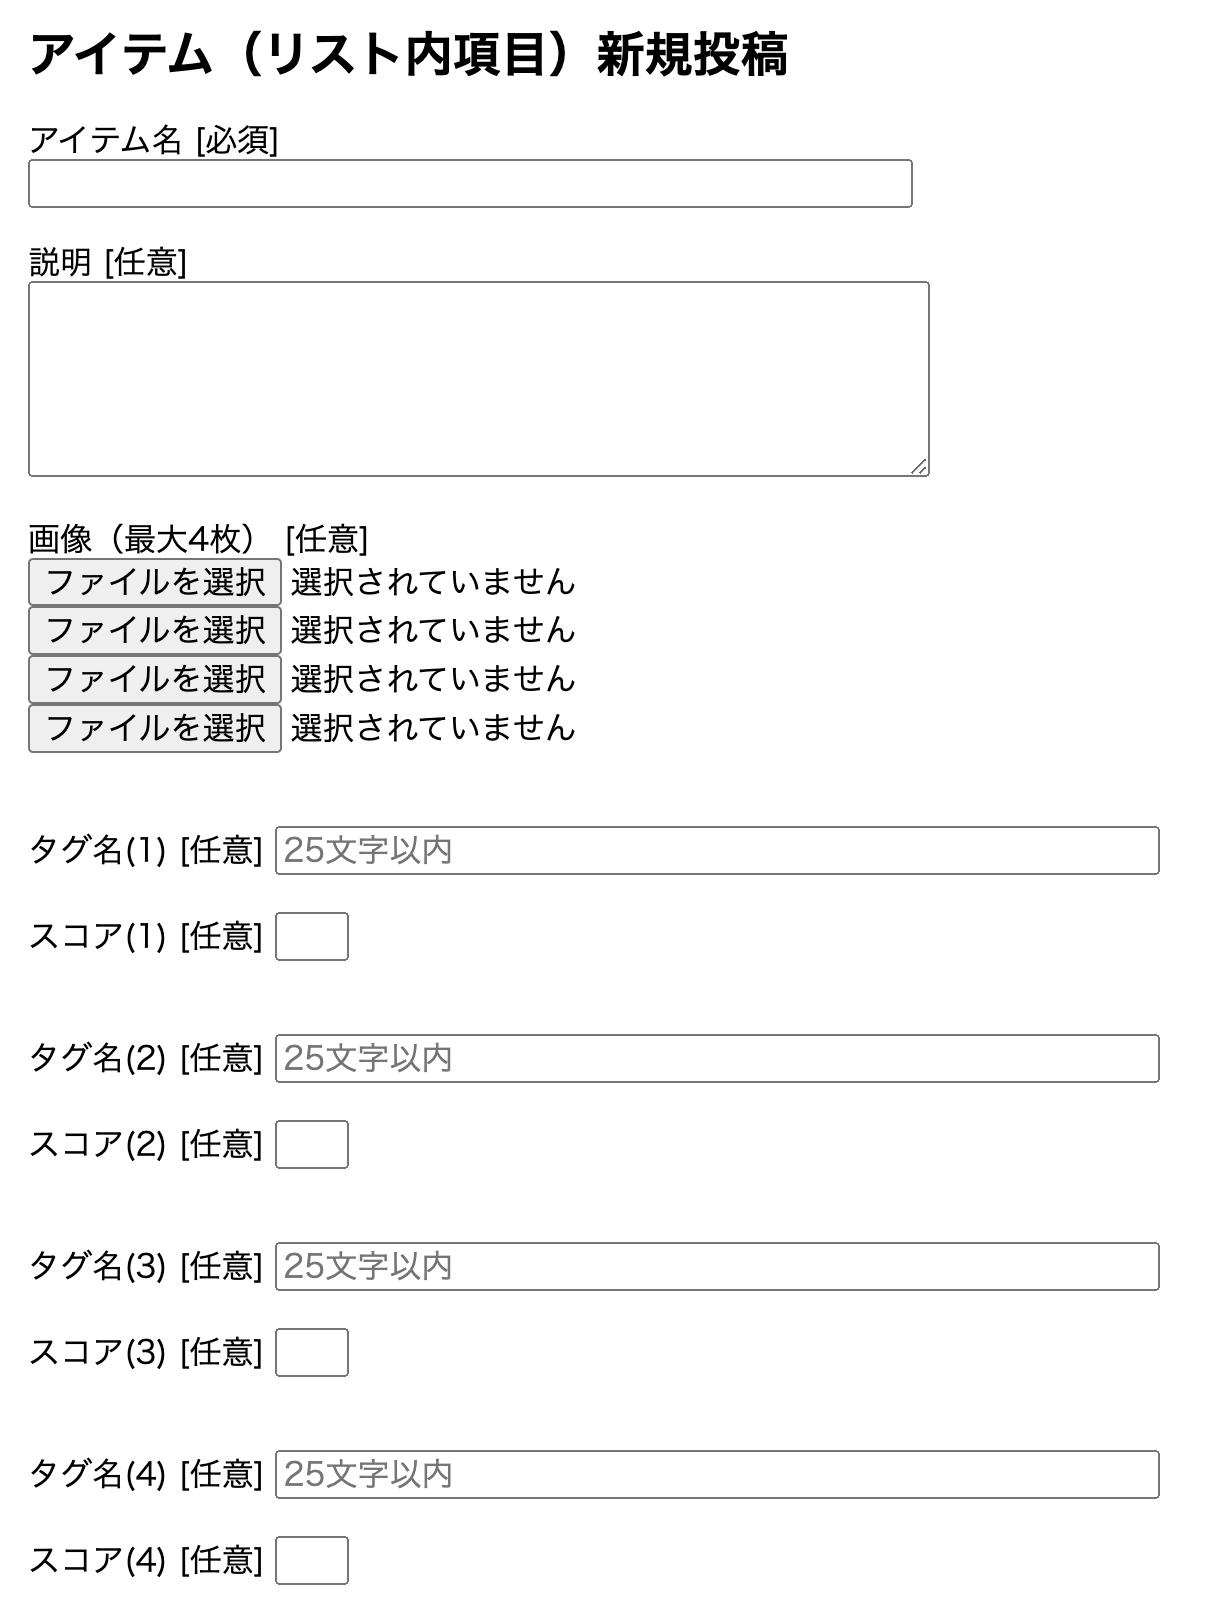
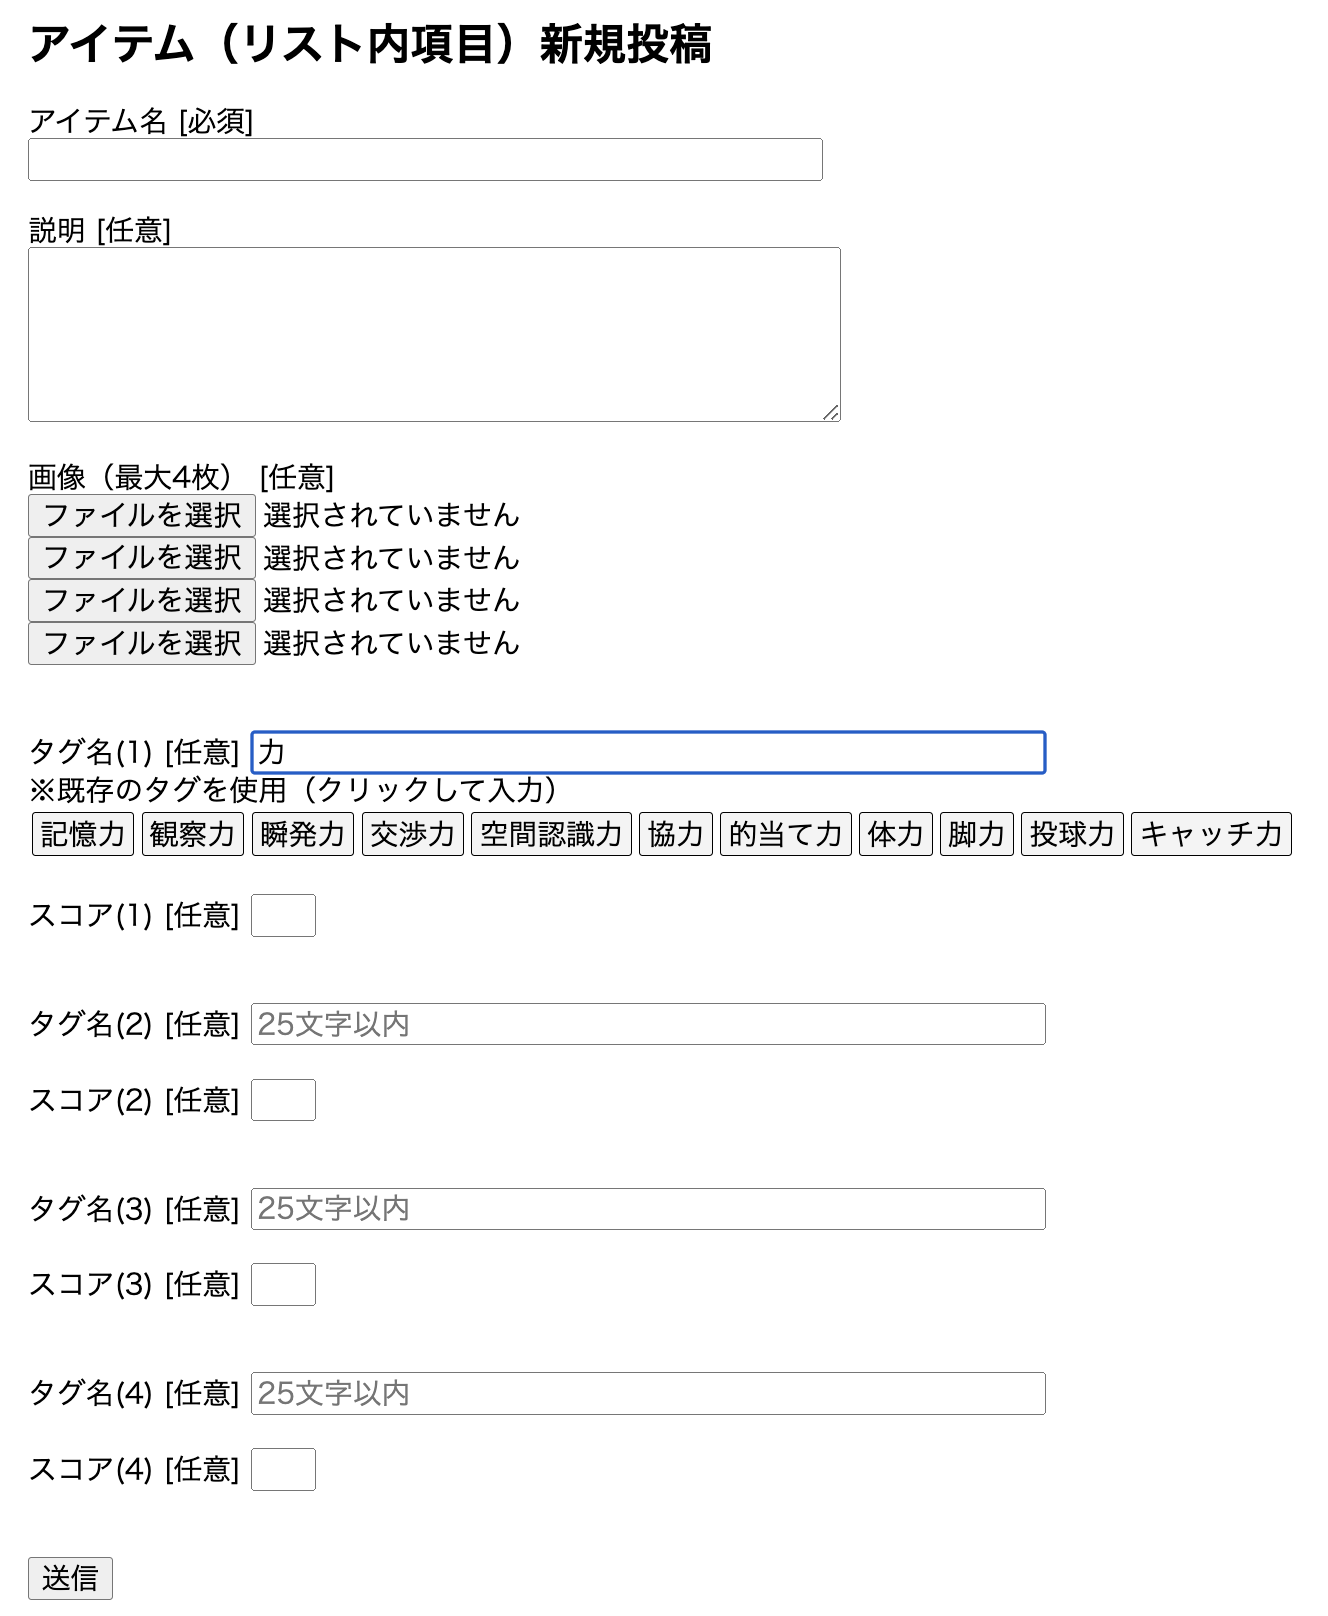
#13 タグ：投稿・編集 (入力時の逐次検索) (JavaScript)
アイテム投稿画面・編集画面：タグ名入力欄に入力した文字が、既存のタグ名と部分一致した場合、タグ名候補を表示。クリックして入力。

diff --git a/app/javascript/tag.js b/app/javascript/tag.js
@@ -1,0 +1,36 @@
+function incrementalSearchTags() {
+  const itemForm = document.getElementById("item_form_item_name");
+  if (itemForm){
+    for (let i = 1; i <= 4; i++){
+      const inputTag = document.getElementById(`item_form_tag_name_${i}`);
+      inputTag.addEventListener("input", () => {
+        const keyword = inputTag.value;
+        const XHR = new XMLHttpRequest();
+        XHR.open("GET", `/tags/search/?keyword=${keyword}`, true);
+        XHR.responseType = "json";
+        XHR.send();
+        XHR.onload = () => {
+          const results = document.getElementById(`search_results_${i}`);
+          results.innerHTML = ""
+          if (XHR.response && XHR.response.keyword != ""){
+            results.innerHTML = `<div>※既存のタグを使用（クリックして入力）</div>`
+            const tags = XHR.response.keyword;
+            tags.forEach((tag) => {
+              const result = document.createElement("span");
+              result.setAttribute("class", "incremental_search_tags")
+              result.setAttribute("id", tag.id);
+              result.innerHTML = tag.tag_name;
+              results.insertAdjacentElement("beforeend", result);
+              result.addEventListener("click", () => {
+                inputTag.value = result.textContent;
+                results.innerHTML = ""
+              });
+            });
+          };
+        };
+      });
+    };
+  };
+};
+
+document.addEventListener("DOMContentLoaded", incrementalSearchTags)

diff --git a/app/javascript/packs/application.js b/app/javascript/packs/application.js
@@ -4,9 +4,10 @@
 // that code so it'll be compiled.
 
 require("@rails/ujs").start()
-require("turbolinks").start()
+// require("turbolinks").start()
 require("@rails/activestorage").start()
 require("channels")
+require("../tag")
 
 
 // Uncomment to copy all static images under ../images to the output folder and reference

diff --git a/app/assets/stylesheets/style.css b/app/assets/stylesheets/style.css
@@ -33,3 +33,12 @@ header {
   text-overflow: ellipsis;
   max-width: 0;
 }
+
+.incremental_search_tags{
+  border: 1px solid;
+  border-radius: 2px;
+  background-color: #F4F4F4;
+  padding: 4px;
+  margin: 2px;
+  line-height: 30px;
+}

diff --git a/app/models/tag.rb b/app/models/tag.rb
@@ -32,6 +32,6 @@ class Tag < ApplicationRecord
 
   # application_controller.rb (def branch_of_search) ：List, Item, Tagモデルのキーワード検索。params[:model]の値により条件分岐。
   def self.search_records(keyword)
-    where("tags.tag_name LIKE?", "%#{keyword}%")
+    where("tag_name LIKE?", "%#{keyword}%")
   end
 end

diff --git a/config/routes.rb b/config/routes.rb
@@ -4,7 +4,9 @@ Rails.application.routes.draw do
   resources :lists do
     resources :items, except: [:index, :show]
   end
-  resources :tags, only: [:index, :show]
+  resources :tags, only: [:index, :show] do
+    get :search, on: :collection
+  end
   resources :users, only: [:index, :show]
   get :search, to: "searches#search"
 end

diff --git a/app/controllers/tags_controller.rb b/app/controllers/tags_controller.rb
@@ -25,4 +25,10 @@ class TagsController < ApplicationController
     @q.sorts = "updated_at DESC" if @q.sorts.empty?
     @items = @q.result.distinct.includes(:list, :tags)
   end
+
+  def search
+    return nil if params[:keyword] == ""
+    tag = Tag.search_records(params[:keyword])
+    render json:{ keyword: tag }
+  end
 end

diff --git a/README.md b/README.md
@@ -43,7 +43,7 @@
 
 　(6 ※未実装)他ユーザーのリストをマイリスト登録し、一覧表示する。  
 
-　(7 ※未実装)自作リストの公開範囲を限定する。閲覧できるユーザーや、共同編集できるユーザーを指定できる。  
+　(7 ※未実装)自作リストの公開範囲を限定する。閲覧可能なユーザーや、共同編集可能なユーザーを指定できる。  
 <br>
 <br>
 
@@ -104,13 +104,15 @@
 <br>
 <br>
 
-### 2-1-2. アイテム(リスト内の各項目)・タグ・スコアの投稿
+### 2-1-2. アイテム(リスト内の各項目)・タグ・スコアの投稿、タグ入力時の逐次検索
 　(1)リスト一覧ページで、自作のリストタイトルをクリックする。  
 　(2)リスト詳細ページで、アイテム新規投稿をクリックする。  
 　(3)アイテムの名前・説明、タグとスコア(最大4組)を入力して投稿する。画像も最大4枚添付できる。  
 
 　※投稿可能：アイテムのみ。アイテム＋タグ。アイテム＋タグ＋スコア。  
 　※投稿不可：タグのみ。スコアのみ。タグ＋スコア。  
+
+　(4)タグ名入力欄に入力した文字が、既存のタグ名と部分一致した場合、タグ名候補を表示する。クリックして入力できる。  
 <br>
 /lists/1/items/new  
 ![画像：2-1-2feature](app/assets/images/readme/2-1-2feature.png)
@@ -191,11 +193,12 @@
 <br>
 <br>
 
-### 2-1-6. タグ検索：タグ(とリスト)を指定してアイテム表示、タグのスコア順にアイテム並び替え
+### 2-1-6. タグ検索：タグ(およびリスト)を指定してアイテム表示、スコア順にアイテム並び替え
 　(1)トップページ(＝リスト一覧ページ)で、タグ検索をクリックする。投稿されたタグを全件一覧表示できる。  
 　(2)検索ワードを入力した場合、該当するタグのみを一覧表示できる(部分一致検索、OR検索)。  
 <br>
-　(3)並び替えボタンをクリックするたびに、昇順・降順を切り替える(タグ名、タグを含むアイテムの最新更新日時)。最近使われたタグを優先的に表示することもできる。  
+　(3)並び替えボタンをクリックすると、昇順・降順を切り替える(タグ名、タグを含むアイテムの最新更新日時)。  
+　→最近使われたタグを優先的に表示することもできる。  
 
 　(4)タグ一覧のタグ名をクリックすると、タグ詳細ページを表示できる。  
 <br>
@@ -204,7 +207,8 @@
 <br>
 <br>
 <br>
-　(5)タグ詳細ページで、タグを含むアイテム一覧を、表示・並び替えできる(アイテム名、更新日時、タグスコア)。特定のタグのスコアを基準にして、アイテムを並び替えることもできる。  
+　(5)タグ詳細ページで、タグを含むアイテム一覧を、表示・並び替えできる(アイテム名、更新日時、タグスコア)。  
+　→特定のタグのスコアを基準にして、アイテムを並び替えることもできる。  
 <br>
 　(6)リスト番号を入力した場合、特定のリストとタグに紐づくアイテムのみを表示・並び替えできる。  
 　※リスト詳細ページで、アイテム一覧のタグ名リンクをクリックした場合、リスト番号は自動入力される。  
@@ -216,9 +220,6 @@
 <br>
 
 ## 2-2. 実装予定
-### 2-2-2(4) タグ投稿：タグ入力時の逐次検索(JavaScript)
-<br>
-
 ### 2-2-3(3) 自作アイテム一覧：ドラッグ＆ドロップによる並び替え、順番保存(JavaScript)
 <br>
 
